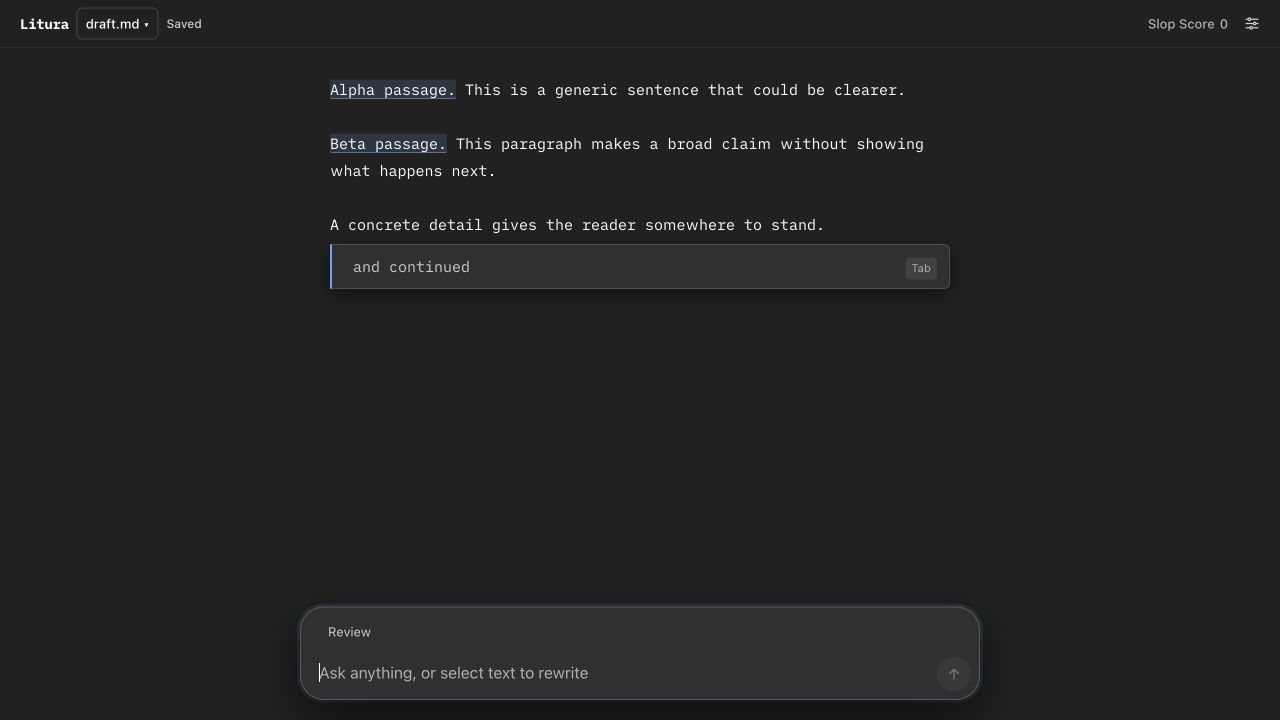
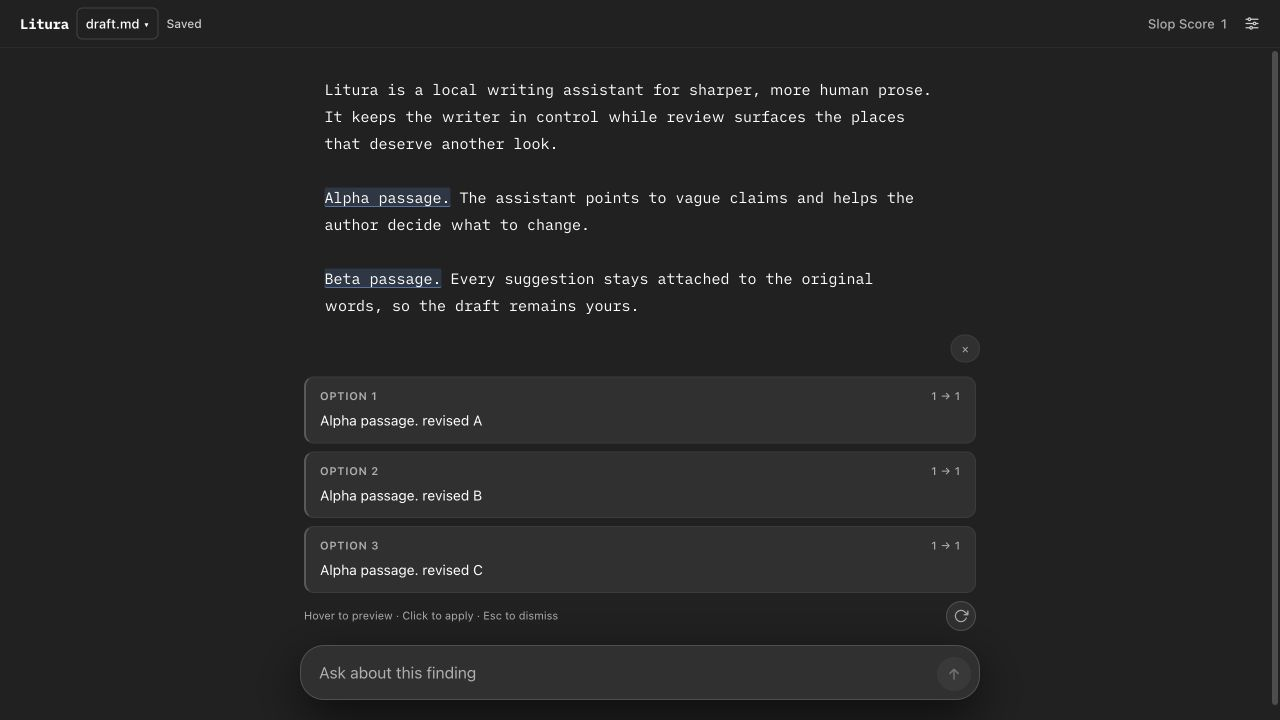
Release 0.3.4

diff --git a/README.md b/README.md
@@ -2,7 +2,7 @@
 
 Litura is a local, AI-assisted text editor for making prose sharper and less generic without taking control away from its author. The name comes from Latin: a correction, erasure, or visible revision in a manuscript.
 
-![Litura editor with review marks and inline continuation](docs/screenshot.png)
+![Litura editor with review marks and rewrite options](docs/screenshot.png)
 
 ## What it does
 

diff --git a/CHANGELOG.md b/CHANGELOG.md
@@ -5,6 +5,10 @@ number carries breaking changes.
 
 ## Unreleased
 
+## 0.3.4 — 2026-09-07
+
+- Refreshed the README preview with a full-screen Litura review flow and three rewrite options.
+
 ## 0.3.3 — 2026-09-07
 
 - Refreshed the README preview with a full-screen editor screenshot showing review marks and inline continuation.
